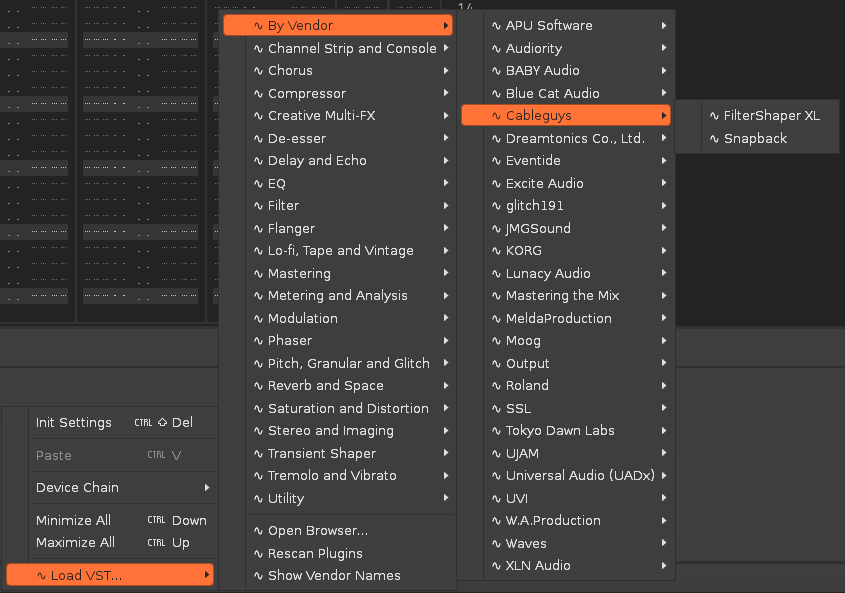
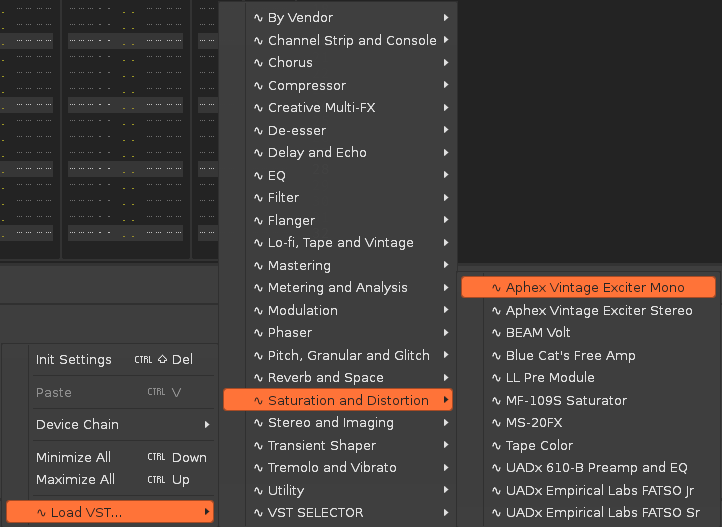
Update the context menu screenshot

diff --git a/README.md b/README.md
@@ -11,7 +11,7 @@ each one does.
 
 *The browser window: search, filters, result list, and the detail panel used to edit a plugin.*
 
-![The Load VST... submenu in the DSP chain context menu, listing the categories, with By Vendor open on Cableguys](docs/screenshots/context-menu.png)
+![The Load VST... submenu in the DSP chain context menu, listing the categories and the VST SELECTOR submenu, with Saturation and Distortion open](docs/screenshots/context-menu.png)
 
 *The Load VST... submenu, next to Renoise's own DSP chain menu entries.*
 
